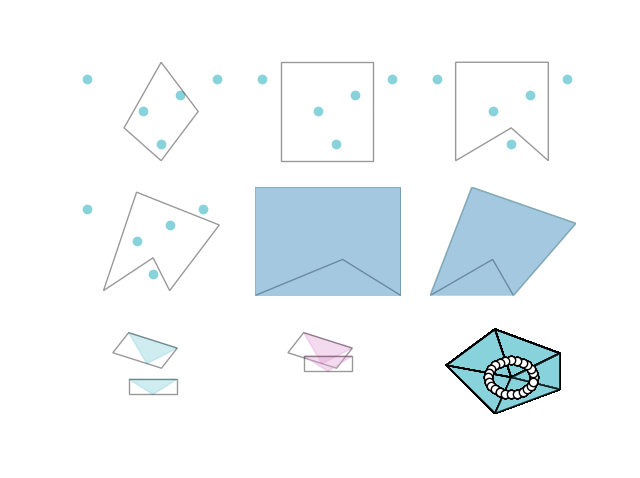
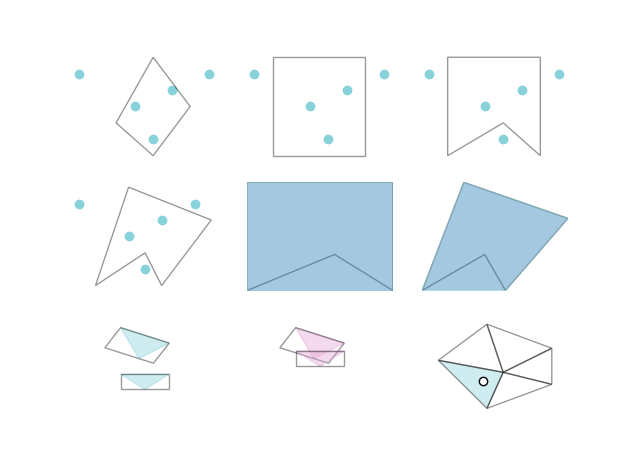
improved readme.md

diff --git a/map_plot.py b/map_plot.py
@@ -1,118 +1,55 @@
 import argparse
-import copy
 import os
-
-import shapefile
-from descartes import PolygonPatch
-from geometries import Polygon, Map
-from geometries import rotatePoint
-from matplotlib import pyplot as plt
-from matplotlib.patches import Polygon as pltPolygon
-from matplotlib import animation
-import numpy as np
 from functools import reduce
 
+import numpy as np
+import shapefile
+from descartes import PolygonPatch
+from matplotlib import animation
+from matplotlib import pyplot as plt
+from matplotlib.patches import Polygon as pltPolygon
+from datetime import datetime as dt
 
-def old_main(map_path):
+from geometries import Polygon, Map
+
+
+def times(map_path, method='map'):
     file_name = map_path.split(os.sep)[-1]
     read_path = os.path.join(map_path, file_name)
     geometry = shapefile.Reader(read_path, encoding='latin-1')
 
-    fig, ax = plt.subplots()
+    descartes_poly = geometry.shapeRecords()[1].__geo_interface__
+    abc = descartes_poly['geometry']['coordinates']
 
-    for i, sr in enumerate(geometry.shapeRecords()):
-        poly = sr.__geo_interface__
-        ax.add_patch(PolygonPatch(poly['geometry'], alpha=0.5, zorder=2, fc='#6699cc', ec='#6699cc'))
+    while isinstance(abc[0][0], tuple):
+        abc = abc[0]
+    abc = list(abc)
+    polygons_plot_data = np.array(abc).astype(np.float64)
+    polygon = Polygon(abc)
 
-    ax.axis('scaled')
-    plt.show()
+    point = (-36.490942842432304, -9.750862586723057)
 
+    myMap = Map(polygons=[polygon])
 
-def test_map_insertion():
-    fig, ax = plt.subplots()
+    func_dict = {
+        'regular': polygon.isInside,
+        'map': myMap.checkInside,
+        'convexHull': polygon.toConvexHull().isInside
+    }
 
-    x_lim = [-1, 8]
-    y_lim = [-1, 8]
+    time_sum = {k: 0 for k in func_dict.keys()}
 
-    ax.set_xlim(-1, 8)
-    ax.set_ylim(-1, 8)
+    n_repeat = 10000
+    for k, func in func_dict.items():
+        t1 = dt.now()
+        for repeat in range(n_repeat):
+            func(point)
+        t2 = dt.now()
+        time_sum[k] = (t2 - t1).total_seconds()
 
-    init_pos = np.array([3, 2], dtype=np.float64)
-    speed = np.array([0.25, 0.3], dtype=np.float64)
-
-    myMap = Map(polygons=[
-        Polygon([(0, 4), (3, 0), (4, 3)]),
-        Polygon([(3, 0), (7, 2), (4, 3)]),
-        Polygon([(4, 3), (7, 2), (7, 5)]),
-        Polygon([(0, 4), (4, 3), (3, 7)]),
-        Polygon([(4, 3), (3, 7), (7, 5)])
-    ])
-
-    polygons_plot_data = [np.array(pol.vertices)[:, :2].astype(np.float32) for pol in myMap.polygons]
-
-    # generates data for current time
-    def data_gen():
-        t = data_gen.t
-        count = 0
-        while count < 360:
-            count += 15
-            t += 1.0
-            new_pos = init_pos
-            new_pos[0] = init_pos[0] + (speed[0] * t)  # + ((0.01 * t)**2.)/2.
-            new_pos[1] = init_pos[1] + (speed[1] * t)  # + ((0.01 * t) ** 2.) / 2.
-
-            if new_pos[0] > max(x_lim):
-                speed[0] *= -1
-                new_pos[0] = max(x_lim)
-            elif new_pos[0] < min(x_lim):
-                speed[0] *= -1
-                new_pos[0] = min(x_lim)
-
-            if new_pos[1] > max(y_lim):
-                speed[1] *= -1
-                new_pos[1] = max(y_lim)
-            elif new_pos[1] < min(y_lim):
-                speed[1] *= -1
-                new_pos[1] = min(y_lim)
-
-            yield t, new_pos
-
-    data_gen.t = 0
-
-    # intialize two line objects (one in each axes)
-    sct = ax.scatter([], [], lw=2)
-
-    # the same axes initalizations as before (just now we do it for both of them)
-
-    ax.set_axis_off()
-
-    # initialize the data arrays
-
-    def run(data):
-        # update the data
-        t, p = data
-
-        # inside_index = myMap.checkInside(p)
-        # inside_index = -1
-
-        patches = [ax.scatter(p[0], p[1], ec='black', c='white')]
-
-        for i, original_data in enumerate(polygons_plot_data):
-            if myMap.checkInside(tuple(p)) == i:
-                pltpol0 = pltPolygon(original_data, fill=True, color='#88d2db', ec='black', alpha=0.4, zorder=0)
-            else:
-                pltpol0 = pltPolygon(original_data, fill=False, ec='black', alpha=0.4, zorder=0)
-
-            patches += [ax.add_patch(pltpol0)]
-
-        # ax.figure.canvas.draw()
-
-        return patches
-
-    ani = animation.FuncAnimation(fig, run, data_gen, blit=True, interval=100, repeat=True)
-
-    ax.axis('scaled')
-    plt.show()
+    print('times for different methods:')
+    for k, time in time_sum.items():
+        print('%s: %f' % (k, time))
 
 
 def main(map_path):
@@ -126,13 +63,16 @@ def main(map_path):
     polygons_obj = []
 
     for i, sr in enumerate(geometry.shapeRecords()):
-        descartes_poly = sr.__geo_interface__
-        abc = descartes_poly['geometry']['coordinates']
-        while isinstance(abc[0][0], tuple):
-            abc = abc[0]
-        abc = list(abc)
-        polygons_plot_data += [np.array(abc).astype(np.float64)]
-        polygons_obj += [Polygon(abc)]
+        descartes_poly = sr.__geo_interface__['geometry']
+        if descartes_poly['type'] == 'Polygon':
+            abc = list(descartes_poly['coordinates'][0])
+            polygons_plot_data += [np.array(abc).astype(np.float64)]
+            polygons_obj += [Polygon(abc)]
+        elif descartes_poly['type'] == 'MultiPolygon':
+            for subpol in descartes_poly['coordinates']:
+                abc = list(subpol[0])
+                polygons_plot_data += [np.array(abc).astype(np.float64)]
+                polygons_obj += [Polygon(abc)]
 
     polygons_plot_data = np.array(polygons_plot_data)
 
@@ -223,7 +163,14 @@ if __name__ == '__main__':
         help='Path to a folder where shapefile map is stored.'
     )
 
-    args = parser.parse_args()
-    # old_main(map_path=args.map_path)
-    main(map_path=args.map_path)
+    parser.add_argument(
+        '--test-times', action='store_true', required=False, default=False,
+        help='Whether to test times of methods instead of plotting the map to screen.'
+    )
 
+    args = parser.parse_args()
+
+    if args.test_times:
+        times(map_path=args.map_path)
+    else:
+        main(map_path=args.map_path)

diff --git a/subplots.py b/subplots.py
@@ -4,9 +4,11 @@ from matplotlib import pyplot as plt
 from matplotlib.patches import Polygon as pltPolygon
 from matplotlib import animation
 import numpy as np
+from datetime import datetime as dt
+from timeit import timeit
 
 
-def test_envelope_collision_detection(axes: np.array, base_index: int):
+def envelope_collision_detection(axes: np.array, base_index: int):
     # plots envelope
     polA = Polygon([(2, 3), (3, 2), (4, 3)])
     envA = polA.getEnvelope()
@@ -14,7 +16,7 @@ def test_envelope_collision_detection(axes: np.array, base_index: int):
     envB = polB.getEnvelope()
     polC = Polygon([(2, 4.5), (3, 3.5), (4, 4.5)])
     envC = polC.getEnvelope()
-    envelope = np.array(polA.getEnvelope())
+    # envelope = np.array(envA)
 
     colorAB = '#e3a3d5' if polA.checkEnvelopeIntersection(polB) else '#88d2db'
     colorBC = '#e3a3d5' if polB.checkEnvelopeIntersection(polC) else '#88d2db'
@@ -39,7 +41,7 @@ def test_envelope_collision_detection(axes: np.array, base_index: int):
     return axes, base_index + 2
 
 
-def test_map_insertion(axes: np.array, fig, base_index: int):
+def map_insertion(axes: np.array, fig, base_index: int):
 
     axes[base_index].set_xlim(-1, 8)
     axes[base_index].set_ylim(-1, 8)
@@ -104,7 +106,7 @@ def test_map_insertion(axes: np.array, fig, base_index: int):
     return axes, base_index + 1
 
 
-def test_convex_hull(axes: np.array, base_index: int):
+def convex_hull(axes: np.array, base_index: int):
 
     concavos = [Polygon([(2, 0), (2, 6), (7, 6), (7, 0), (5, 2)]), Polygon([(2, 0), (4, 6), (9, 4), (6, 0), (5, 2)])]
 
@@ -127,7 +129,7 @@ def test_convex_hull(axes: np.array, base_index: int):
     return axes, base_index + len(concavos)
 
 
-def test_points_inside_polygons(axes: np.array, base_index: int):
+def points_inside_polygons(axes: np.array, base_index: int):
     """
     Testa se um ponto está dentro de polígono côncavo/convexo.
 
@@ -167,15 +169,18 @@ def test_points_inside_polygons(axes: np.array, base_index: int):
     return axes, base_index + len(convexos) + len(concavos)
 
 
+
+
+
 def main():
     fig, axes = plt.subplots(nrows=3, ncols=3)
     axes = np.ravel(axes)
 
     base_index = 0
-    axes, base_index = test_points_inside_polygons(axes, base_index=base_index)
-    axes, base_index = test_convex_hull(axes, base_index=base_index)
-    axes, base_index = test_envelope_collision_detection(axes, base_index=base_index)
-    axes, base_index = test_map_insertion(axes, fig=fig, base_index=base_index)
+    axes, base_index = points_inside_polygons(axes, base_index=base_index)
+    axes, base_index = convex_hull(axes, base_index=base_index)
+    axes, base_index = envelope_collision_detection(axes, base_index=base_index)
+    axes, base_index = map_insertion(axes, fig=fig, base_index=base_index)
 
     plt.show()
 

diff --git a/README.md b/README.md
@@ -1,6 +1,7 @@
 # CGT5
 Repository for last assignment of Computer Graphics Class of Professor Márcio Pinho
 
+## Installation
 
 ```bash
 conda create --name cg python=3.8.3
@@ -8,6 +9,121 @@ conda activate cg
 conda install --file requirements.txt
 ```
 
-It uses Visual Studio 2019 for compiling the attached library with source code:
+This project was developed using Windows. It requires Python Tools, included in Visual Studio 2019, 
+for compiling the attached library, `geometries`:
 
+```bash
+cd geometries
+conda activate cg
+python setup.py install
+```
+
+Test it in command line as:
+
+```bash
+conda activate cg
+python
+```
+```python
+import geometries
+print(geometries.__doc__)
+```
+
+## Testing
+
+There are three scripts that can be tested.
+
+### Subplots
+
+Call it with command
+
+```bash
+python subplots.py
+``` 
+
+It should output an animated plot on a new screen, like the one below:
+![subplots](figures/subplots.png)
+
+From left to right, top to bottom:
+
+1. Algorithm for testing inclusion of points in convex polygon (blue = correct prediction, red = incorrect prediction, 
+i.e. algorithm says it is outside, but is indeed inside). Implementation is in file `polygon.h`, method `isInsideConvex`
+2. Same as `1`
+3. Algorithm for testing inclusion of points in concave polygon (blue = correct prediction, red = incorrect prediction, 
+i.e. algorithm says it is outside, but is indeed inside). Implementation is in file `polygon.h`, method `isInsideConcave`
+4. Same as `3`
+5. Convex hull algorithm. Black lines are from concave polygon, blue area is the generated convex polygon. 
+Implementation is in file `polygon.h`, method `PyPolygon_toConvexHull`.
+6. Same as `6`
+7. Envelope algorithm applied to two convex polygons. Green = polygons do not intersect, red otherwise. Envelope is
+implemented in method `PyPolygon_addEnvelope` of file `polygon.h`. Collision is implemented in file `polygon.h`, 
+method `PyPolygon_checkEnvelopeIntersection`.
+8. Same as `7`.
+9. A Map of polygons, using the slab algorithm to detect collision. Uses a fixed number of slabs, instead of one slab 
+per vertex. Implementation in file `map.h`, in constructor `PyMap_init`. Test is implemented in method 
+`PyMap_checkInside`.
+
+### map_plot
+
+For a demonstration of slab algorithm in a map of Brazil, run script `map_plot.py`:
  
+ ```bash
+python map_plot.py
+``` 
+
+It should output an animated map, the same way as bullet `9` of previous section.
+
+![map_1](figures/map_1.PNG)
+![map_2](figures/map_2.PNG)
+
+### Test times
+
+Finally, if instead of plotting, one desires to measure the differences in times of execution of different methods, it 
+is only required to pass parameter `--test-times` to `map_plot.py` script:
+
+```bash
+python map_plot.py --test-times
+``` 
+
+It will then output to the terminal the result of 1000 executions of three different methods of testing inclusion of 
+points in polygons:
+
+```bash
+regular: 0.053000
+map: 0.074002
+convexHull: 0.002000
+```
+
+Where:
+
+* regular: Given a polygon, returns the execution time of running 1000 times the algorithm of inclusion of point in 
+concave polygon
+* Given a map,  returns the execution time of running 1000 times the algorithm of inclusion of point in 
+a map, using slab algorithm
+* Given a polygon, converts it to a Convex polygon, then runs 1000 times the algorithm of inclusion of point in convex 
+polygon, and displays the execution time
+
+The code for testing times is depicted below:
+```python
+myMap = Map(polygons=[polygon])
+
+func_dict = {
+    'regular': polygon.isInside,
+    'map': myMap.checkInside,
+    'convexHull': polygon.toConvexHull().isInside
+}
+
+time_sum = {k: 0 for k in func_dict.keys()}
+
+n_repeat = 10000
+for k, func in func_dict.items():
+    t1 = dt.now()
+    for repeat in range(n_repeat):
+        func(point)
+    t2 = dt.now()
+    time_sum[k] = (t2 - t1).total_seconds()
+
+print('times for different methods:')
+for k, time in time_sum.items():
+    print('%s: %f' % (k, time))
+```
